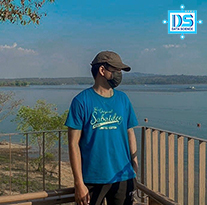
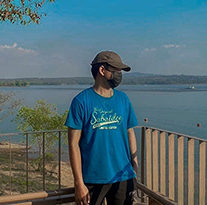
.

Changed region(s): [[0.7826, 0.0, 0.9855, 0.2049]]

diff --git a/Home.py b/Home.py
@@ -30,7 +30,7 @@ with col2:
     st.image("./pic/11.jpg")
 
 with col3:
-    st.write("")
+    st.image("./pic/22.jpg")
 
 
 html_2 = """
